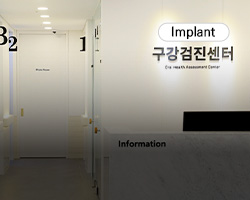
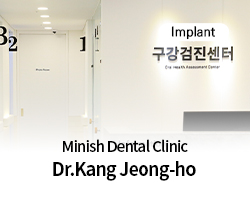
영문 안산치 썸네일 변경 250416

diff --git a/AnSanChi/VaginoplastyEN.html b/AnSanChi/VaginoplastyEN.html
@@ -78,41 +78,41 @@
                 </div>
                 <div class="hospital__bottom">
                     <ul>
-                        <li>
+                        <li style="border: 1px solid #e4e4e4;">
                             <a href="/doctor/OB-GYN-EN/Dr_KimJiYeonEN.html">
-                                <div class="hospital__list">
+                                <div class="hospital__list" style="display: none;">
                                     <span>Y Queen Woman Clinic</span>
                                     <span>Dr.Kim Jiyeon</span>
                                 </div>
                             </a>
                         </li>
-                        <li>
+                        <li style="border: 1px solid #e4e4e4;">
                             <a href="/doctor/OB-GYN-EN/Dr_JungRyeolLeeEN.html">
-                                <div class="hospital__list">
+                                <div class="hospital__list" style="display: none;">
                                     <span>Ahn Gynecology</span>
                                     <span>Dr.Jung ryeol Lee</span>
                                 </div>
                             </a>
                         </li>
-                        <li>
+                        <li style="border: 1px solid #e4e4e4;">
                             <a href="/doctor/OB-GYN-EN/Dr_GillKiHyeonEN.html">
-                                <div class="hospital__list">
+                                <div class="hospital__list" style="display: none;">
                                     <span>Barun Gyn</span>
                                     <span>Dr.Gihyeong Gil</span>
                                 </div>
                             </a>
                         </li>
-                        <li>
+                        <li style="border: 1px solid #e4e4e4;">
                             <a href="/doctor/OB-GYN-EN/Dr_KwonJeongEunEN.html">
-                                <div class="hospital__list">
+                                <div class="hospital__list" style="display: none;">
                                     <span>Hestia Women's Clinic</span>
                                     <span>Dr.Jeong-eun Kwon</span>
                                 </div>
                             </a>
                         </li>
-                        <li>
+                        <li style="border: 1px solid #e4e4e4;">
                             <a href="/doctor/OB-GYN-EN/Dr_KimJungYeonEN.html">
-                                <div class="hospital__list">
+                                <div class="hospital__list" style="display: none;">
                                     <span>Jiin Clinic</span>
                                     <span>Dr.Jeong-yeon Kim</span>
                                 </div>

diff --git a/AnSanChi/ophthalmologyEN.html b/AnSanChi/ophthalmologyEN.html
@@ -78,17 +78,17 @@
                 </div>
                 <div class="hospital__bottom">
                     <ul>
-                        <li>
+                        <li style="border: 1px solid #e4e4e4;">
                             <a href="/doctor/ophthalmologyEN/Dr_HyunChulCheonEN.html">
-                                <div class="hospital__list">
+                                <div class="hospital__list" style="display: none;">
                                     <span>Bright Eye Clinic</span>
                                     <span>Dr.Hyun Chul Cheon</span>
                                 </div>
                             </a>
                         </li>
-                        <li>
+                        <li style="border: 1px solid #e4e4e4;">
                             <a href="/doctor/ophthalmologyEN/Dr_KimMooYeonEN.html">
-                                <div class="hospital__list">
+                                <div class="hospital__list" style="display: none;">
                                     <span>GS Eye Center</span>
                                     <span>Dr.Kim, Mu-Yan</span>
                                 </div>

diff --git a/AnSanChi/implantEN.html b/AnSanChi/implantEN.html
@@ -35,7 +35,7 @@
                         <li><a href="/NoticeEN.html">Notice</a></li>
                         <li><a href="/NewsEN.html">News</a></li>
                     </ul>
-                </li>1
+                </li>
             </ul>
             <ul class="navbar__links">
                 <li>
@@ -78,9 +78,9 @@
                 </div>
                 <div class="hospital__bottom">
                     <ul>
-                        <li>
+                        <li style="border: 1px solid #e4e4e4;">
                             <a href="/doctor/dentistryEN/Dr_KangJeongHo.html">
-                                <div class="hospital__list">
+                                <div class="hospital__list" style="display: none;">
                                     <span>Minish Dental Clinic</span>
                                     <span>Kang Jeong-ho</span>
                                 </div>
